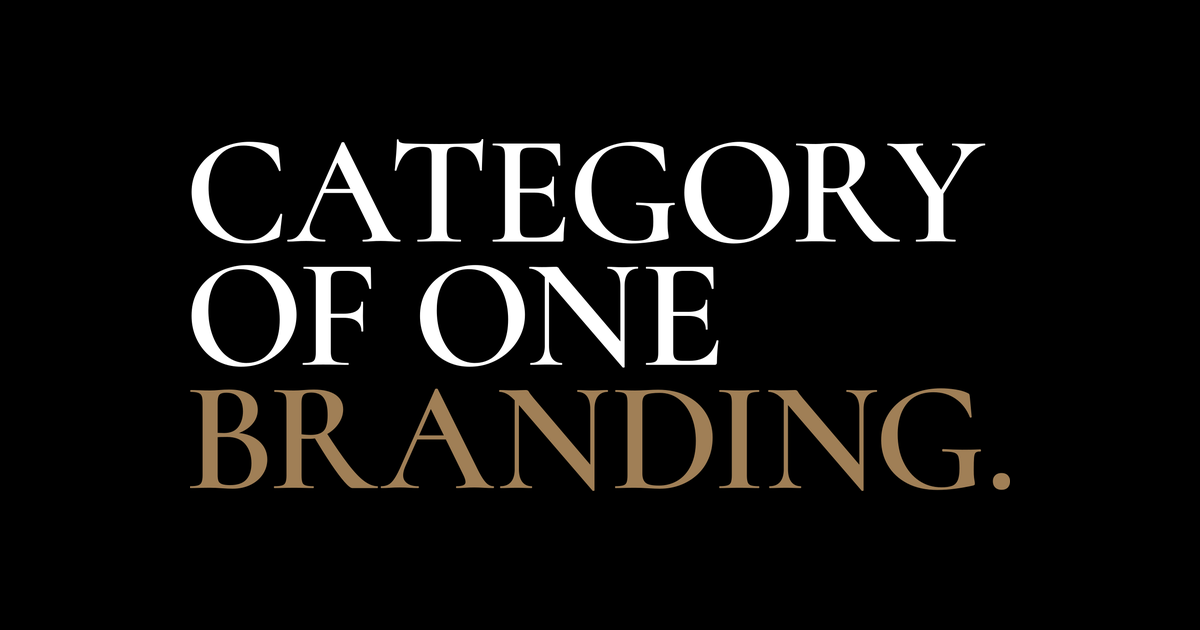
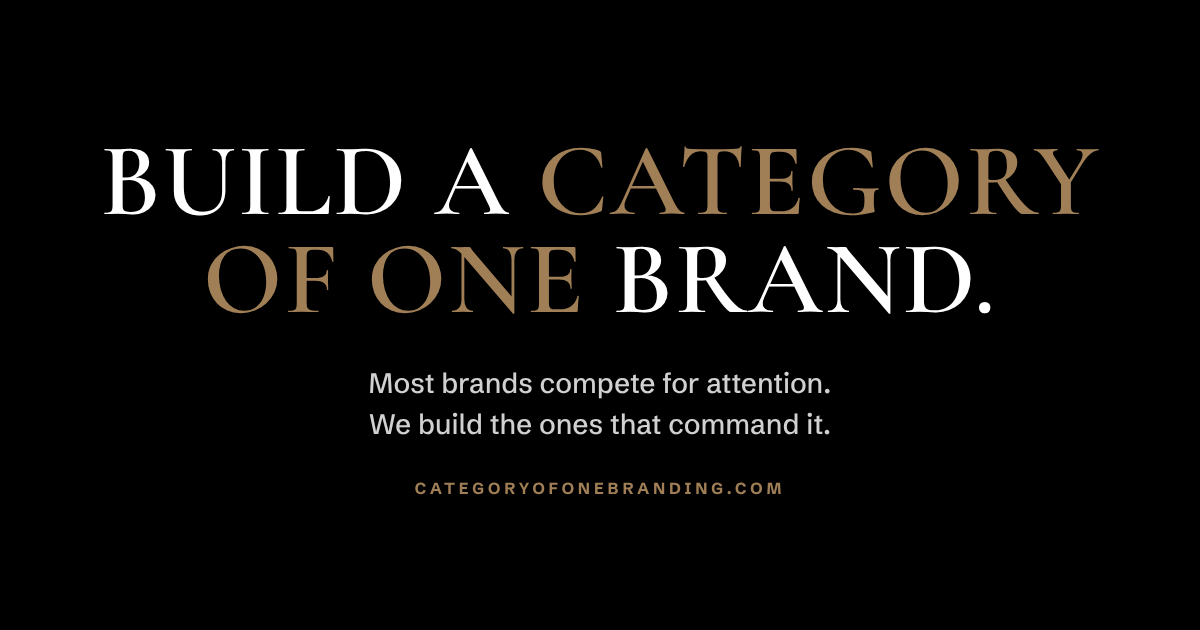
Share previews and mobile case-study filter
- New share image (og-home.png): Build a Category of One brand + tagline
- Open Graph / Twitter tags on homepage, Our Work and Podcast hubs; Services
  points to the new image
- Our Work on mobile: industry filter becomes one dropdown with counts;
  desktop keeps the filter buttons

Claude-Session: https://claude.ai/code/session_011N7BYKDoGCQ1csLJQMNomb

Changed region(s): [[0.0925, 0.2111, 0.925, 0.7841], [0.8017, 0.6333, 0.8325, 0.6635]]

diff --git a/case-studies/index.html b/case-studies/index.html
@@ -4,6 +4,19 @@
   <meta charset="UTF-8" /><meta name="viewport" content="width=device-width, initial-scale=1.0" />
   <title>Case Studies &mdash; Category of One Branding</title>
   <meta name="description" content="Select success stories from Category of One Branding &mdash; founder-led B2B and B2C brands repositioned into category-defining leaders." />
+  <meta property="og:type" content="website" />
+  <meta property="og:site_name" content="Category of One Branding" />
+  <meta property="og:title" content="Case Studies &mdash; Category of One Branding" />
+  <meta property="og:description" content="Select success stories from Category of One Branding &mdash; founder-led B2B and B2C brands repositioned into category-defining leaders." />
+  <meta property="og:url" content="https://categoryofonebranding.com/case-studies/" />
+  <meta property="og:image" content="https://categoryofonebranding.com/og-home.png?v=2" />
+  <meta property="og:image:width" content="1200" />
+  <meta property="og:image:height" content="630" />
+  <meta property="og:image:alt" content="Build a Category of One brand. Most brands compete for attention. We build the ones that command it." />
+  <meta name="twitter:card" content="summary_large_image" />
+  <meta name="twitter:title" content="Case Studies &mdash; Category of One Branding" />
+  <meta name="twitter:description" content="Select success stories from Category of One Branding &mdash; founder-led B2B and B2C brands repositioned into category-defining leaders." />
+  <meta name="twitter:image" content="https://categoryofonebranding.com/og-home.png?v=2" />
   <link rel="preconnect" href="https://fonts.googleapis.com" /><link rel="preconnect" href="https://fonts.gstatic.com" crossorigin />
   <link href="https://fonts.googleapis.com/css2?family=Cormorant+Garamond:ital,wght@0,500;0,600;0,700;1,500&family=Schibsted+Grotesk:wght@400;500;600;700&display=swap" rel="stylesheet" />
   <style>
@@ -81,6 +94,25 @@
 .card.is-hidden{display:none !important;}
 @media(max-width:900px){.cs-filters{display:flex;flex-wrap:wrap;gap:8px;margin:0 0 32px;padding:0;overflow:visible;}.cs-filter{flex:0 1 auto;font-size:10.5px !important;letter-spacing:.12em !important;padding:10px 12px !important;white-space:normal;text-align:left;line-height:1.3;}}
 </style>
+<style id="csdropdown">
+.cs-dd{display:none;position:relative;margin:0 0 32px;}
+.cs-dd-btn{width:100%;min-height:58px;display:flex;align-items:center;justify-content:space-between;gap:12px;padding:0 18px;background:#fff;border:1px solid #000;border-radius:0;cursor:pointer;text-align:left;}
+.cs-dd-txt{display:flex;flex-direction:column;gap:3px;}
+html body .cs-dd-lbl:not(#x){font-size:10.5px;font-weight:700;letter-spacing:.2em;text-transform:uppercase;color:#7E6243 !important;}
+html body .cs-dd-val:not(#x){font-size:15px;font-weight:600;color:#000 !important;}
+html body .cs-dd-n:not(#x){font-weight:500;color:rgba(31,27,22,.5) !important;}
+.cs-dd-chev{flex:0 0 auto;transition:transform .2s;}
+.cs-dd.open .cs-dd-chev{transform:rotate(180deg);}
+.cs-dd-list{border:1px solid #000;border-top:0;background:#fff;}
+.cs-dd-list[hidden]{display:none;}
+.cs-dd-opt{width:100%;min-height:52px;display:flex;align-items:center;justify-content:space-between;gap:12px;padding:0 18px;background:#fff;border:0;border-top:1px solid rgba(0,0,0,.1);border-radius:0;cursor:pointer;text-align:left;font-size:15px;font-weight:500;color:#000;}
+.cs-dd-opt:first-child{border-top:0;}
+.cs-dd-opt.on{background:#FAF7F1;font-weight:700;}
+html body .cs-dd-opt .n:not(#x){display:flex;align-items:center;gap:12px;font-weight:500;color:rgba(31,27,22,.5) !important;}
+html body .cs-dd-opt .ck:not(#x){width:14px;color:#7E6243 !important;font-weight:700;visibility:hidden;}
+.cs-dd-opt.on .ck{visibility:visible !important;}
+@media(max-width:900px){.cs-filters{display:none !important;}.cs-dd{display:block;}}
+</style>
 <link rel="stylesheet" href="/css/site.css?v=20261028f">
 </head>
 <body>
@@ -112,6 +144,16 @@
 <section class="work">
   <div class="work-in">
     <div class="work-head"></div>
+    <div class="cs-dd" id="csDd">
+      <button type="button" class="cs-dd-btn" aria-expanded="false" aria-controls="csDdList"><span class="cs-dd-txt"><span class="cs-dd-lbl">Filter by industry</span><span class="cs-dd-val"><span class="cs-dd-cur">All</span> <span class="cs-dd-n">&middot; <span class="cs-dd-cnt"></span></span></span></span><svg class="cs-dd-chev" width="14" height="9" viewBox="0 0 14 9" aria-hidden="true"><path d="M1 1l6 6 6-6" stroke="#000" stroke-width="1.6" fill="none"/></svg></button>
+      <div class="cs-dd-list" id="csDdList" hidden>
+        <button type="button" class="cs-dd-opt on" data-f="all" data-short="All">All industries<span class="n"><span class="c"></span><span class="ck">&#10003;</span></span></button>
+        <button type="button" class="cs-dd-opt" data-f="consulting" data-short="Consulting">Consulting &amp; Professional Services<span class="n"><span class="c"></span><span class="ck">&#10003;</span></span></button>
+        <button type="button" class="cs-dd-opt" data-f="tech" data-short="Tech &amp; Agency">Technology &amp; Agency Services<span class="n"><span class="c"></span><span class="ck">&#10003;</span></span></button>
+        <button type="button" class="cs-dd-opt" data-f="education" data-short="Education">Education &amp; Learning<span class="n"><span class="c"></span><span class="ck">&#10003;</span></span></button>
+        <button type="button" class="cs-dd-opt" data-f="consumer" data-short="Consumer">Consumer &amp; Lifestyle<span class="n"><span class="c"></span><span class="ck">&#10003;</span></span></button>
+      </div>
+    </div>
     <div class="cs-filters" role="tablist" aria-label="Filter case studies"><button type="button" class="cs-filter on" data-f="all" aria-pressed="true">All</button><button type="button" class="cs-filter" data-f="consulting" aria-pressed="false">Consulting &amp; Professional Services</button><button type="button" class="cs-filter" data-f="tech" aria-pressed="false">Technology &amp; Agency Services</button><button type="button" class="cs-filter" data-f="education" aria-pressed="false">Education &amp; Learning</button><button type="button" class="cs-filter" data-f="consumer" aria-pressed="false">Consumer &amp; Lifestyle</button></div>
     <div class="cards">
       <a class="card" data-cat="education" href="/case-studies/odyssey-test-prep/" style="--cbg:#32D2BE">
@@ -224,5 +266,15 @@ window.addEventListener('scroll',s,{passive:true});s();})();
 </script>
 <script src="https://link.categoryofonebranding.com/js/form_embed.js"></script>
 <script id="csfiltersjs">(function(){var b=document.querySelectorAll('.cs-filter'),c=document.querySelectorAll('.cards .card');b.forEach(function(x){x.addEventListener('click',function(){var f=x.getAttribute('data-f');b.forEach(function(y){var on=y===x;y.classList.toggle('on',on);y.setAttribute('aria-pressed',on?'true':'false');});c.forEach(function(k){k.classList.toggle('is-hidden',f!=='all'&&k.getAttribute('data-cat')!==f);});});});})();</script>
+<script id="csdropdownjs">(function(){var d=document.getElementById('csDd');if(!d)return;var btn=d.querySelector('.cs-dd-btn'),list=d.querySelector('.cs-dd-list'),opts=d.querySelectorAll('.cs-dd-opt'),cards=document.querySelectorAll('.cards .card');
+function count(f){var n=0;cards.forEach(function(k){if(f==='all'||k.getAttribute('data-cat')===f)n++;});return n;}
+opts.forEach(function(o){o.querySelector('.c').textContent=count(o.getAttribute('data-f'));});
+function setOpen(v){list.hidden=!v;d.classList.toggle('open',v);btn.setAttribute('aria-expanded',v?'true':'false');}
+function sync(f){opts.forEach(function(o){var on=o.getAttribute('data-f')===f;o.classList.toggle('on',on);if(on){d.querySelector('.cs-dd-cur').textContent=o.getAttribute('data-short');}});d.querySelector('.cs-dd-cnt').textContent=count(f);}
+btn.addEventListener('click',function(){setOpen(list.hidden);});
+opts.forEach(function(o){o.addEventListener('click',function(){var f=o.getAttribute('data-f'),chip=document.querySelector('.cs-filter[data-f="'+f+'"]');if(chip)chip.click();sync(f);setOpen(false);});});
+document.querySelectorAll('.cs-filter').forEach(function(c){c.addEventListener('click',function(){sync(c.getAttribute('data-f'));});});
+document.addEventListener('click',function(e){if(!d.contains(e.target))setOpen(false);});
+sync('all');})();</script>
 </body>
 </html>

diff --git a/podcast/index.html b/podcast/index.html
@@ -5,6 +5,19 @@
   <meta name="viewport" content="width=device-width, initial-scale=1.0" />
   <title>Category of One &mdash; The Podcast with Re Perez</title>
   <meta name="description" content="Category of One: honest conversations with founders and category-defining brands on identity, authenticity, and building something only you can. Hosted by brand strategist Re Perez." />
+  <meta property="og:type" content="website" />
+  <meta property="og:site_name" content="Category of One Branding" />
+  <meta property="og:title" content="Podcast &mdash; Category of One Branding" />
+  <meta property="og:description" content="Category of One: honest conversations with founders and category-defining brands on identity, authenticity, and building something only you can. Hosted by brand strategist Re Perez." />
+  <meta property="og:url" content="https://categoryofonebranding.com/podcast/" />
+  <meta property="og:image" content="https://categoryofonebranding.com/og-home.png?v=2" />
+  <meta property="og:image:width" content="1200" />
+  <meta property="og:image:height" content="630" />
+  <meta property="og:image:alt" content="Build a Category of One brand. Most brands compete for attention. We build the ones that command it." />
+  <meta name="twitter:card" content="summary_large_image" />
+  <meta name="twitter:title" content="Podcast &mdash; Category of One Branding" />
+  <meta name="twitter:description" content="Category of One: honest conversations with founders and category-defining brands on identity, authenticity, and building something only you can. Hosted by brand strategist Re Perez." />
+  <meta name="twitter:image" content="https://categoryofonebranding.com/og-home.png?v=2" />
   <link rel="preconnect" href="https://fonts.googleapis.com" /><link rel="preconnect" href="https://fonts.gstatic.com" crossorigin />
   <link href="https://fonts.googleapis.com/css2?family=Cormorant+Garamond:ital,wght@0,500;0,600;0,700;1,500&family=Schibsted+Grotesk:wght@400;500;600;700&display=swap" rel="stylesheet" />
   <style>

diff --git a/index.html b/index.html
@@ -5,6 +5,19 @@
   <meta name="viewport" content="width=device-width, initial-scale=1.0" />
   <title>Category of One Branding</title>
   <meta name="description" content="Become the only choice in your market. Category of One Branding helps growing, founder-led, impact-driven B2B businesses build category-defining brands for the AI era." />
+  <meta property="og:type" content="website" />
+  <meta property="og:site_name" content="Category of One Branding" />
+  <meta property="og:title" content="Category of One Branding" />
+  <meta property="og:description" content="Most brands compete for attention. We build the ones that command it. Brand strategy and identity for founder-led B2B companies." />
+  <meta property="og:url" content="https://categoryofonebranding.com/" />
+  <meta property="og:image" content="https://categoryofonebranding.com/og-home.png?v=2" />
+  <meta property="og:image:width" content="1200" />
+  <meta property="og:image:height" content="630" />
+  <meta property="og:image:alt" content="Build a Category of One brand. Most brands compete for attention. We build the ones that command it." />
+  <meta name="twitter:card" content="summary_large_image" />
+  <meta name="twitter:title" content="Category of One Branding" />
+  <meta name="twitter:description" content="Most brands compete for attention. We build the ones that command it. Brand strategy and identity for founder-led B2B companies." />
+  <meta name="twitter:image" content="https://categoryofonebranding.com/og-home.png?v=2" />
   <link rel="preconnect" href="https://fonts.googleapis.com" />
   <link rel="preconnect" href="https://fonts.gstatic.com" crossorigin />
   <link href="https://fonts.googleapis.com/css2?family=Cormorant+Garamond:ital,wght@0,500;0,600;0,700;1,500&family=Schibsted+Grotesk:wght@400;500;600;700&display=swap" rel="stylesheet" />

diff --git a/services/index.html b/services/index.html
@@ -8,7 +8,10 @@
   <meta property="og:title" content="Services &mdash; Category of One Branding" />
   <meta property="og:description" content="Brand Build, Rebrand, and Exit-Ready Brand for founder-led B2B companies." />
   <meta property="og:url" content="https://categoryofonebranding.com/services/" />
-  <meta property="og:image" content="https://categoryofonebranding.com/og-home.png" />
+  <meta property="og:image" content="https://categoryofonebranding.com/og-home.png?v=2" />
+  <meta property="og:image:width" content="1200" />
+  <meta property="og:image:height" content="630" />
+  <meta name="twitter:card" content="summary_large_image" />
   <link rel="preconnect" href="https://fonts.googleapis.com" /><link rel="preconnect" href="https://fonts.gstatic.com" crossorigin />
   <link href="https://fonts.googleapis.com/css2?family=Cormorant+Garamond:ital,wght@0,500;0,600;0,700;1,500&family=Schibsted+Grotesk:wght@400;500;600;700&display=swap" rel="stylesheet" />
   <style>
